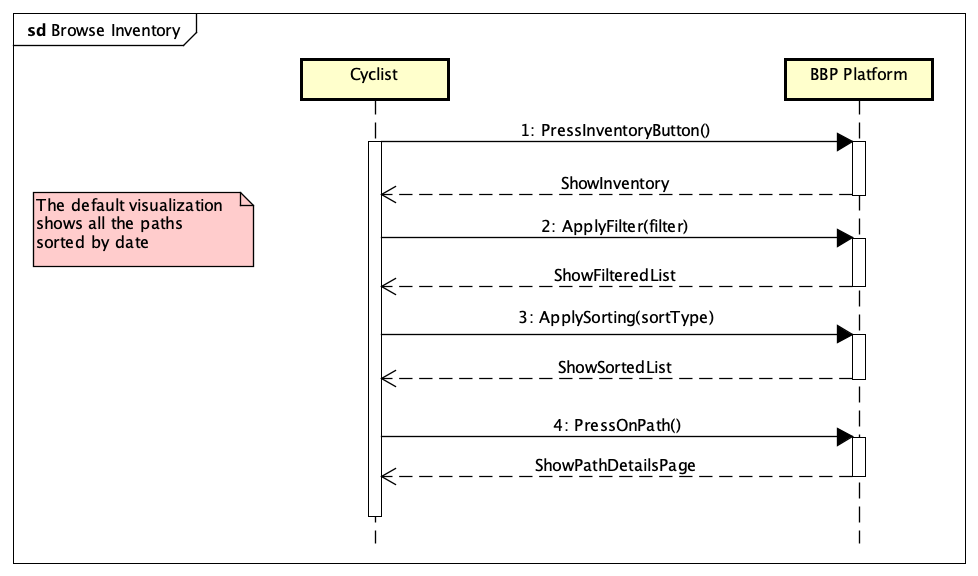
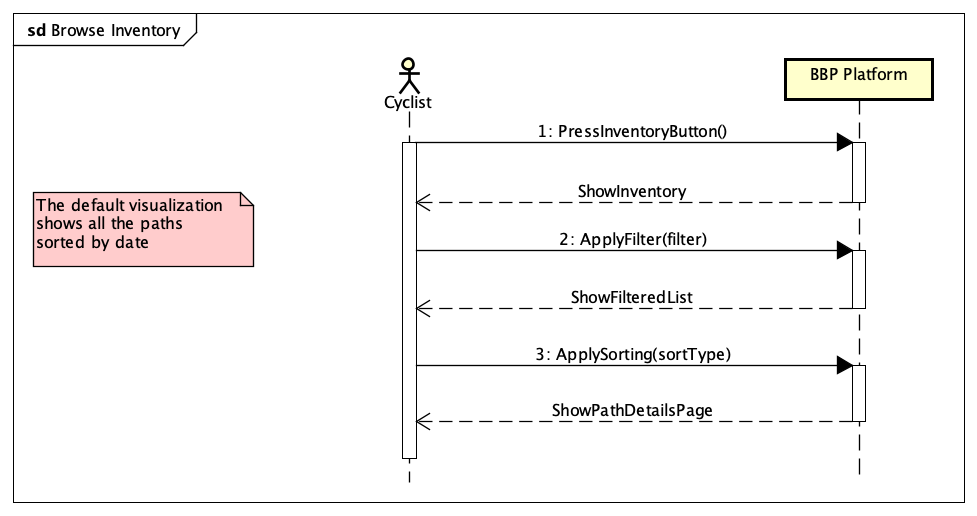
Minor updates to the sequence diagrams

diff --git a/RASD/main.tex b/RASD/main.tex
@@ -31,8 +31,8 @@
 \textbf{Deliverable:} & RASD\\
 \textbf{Title:} & Requirement Analysis and Specification Document \\
 \textbf{Authors:} & Bellomo Flavio, Pennino Salvatore, Samarani Anna \\
-\textbf{Version:} & 1.0 \\ 
-\textbf{Date:} & 07-November-2025 \\
+\textbf{Version:} & 2 \\ 
+\textbf{Date:} & 07-January-2026 \\
 \textbf{Download page:} & https://github.com/flavioblm/BellomoPenninoSamarani.git \\
 \textbf{Copyright:} & Copyright © 2025, Bellomo Flavio, Pennino Salvatore, Samarani Anna – All rights reserved \\
 \hline

diff --git a/RASD/Files/introduction.tex b/RASD/Files/introduction.tex
@@ -69,6 +69,7 @@ The core function of BBP is to support cyclists in recording, managing, and shar
     \item \textbf{R:} Requirement
 \end{itemize}
 \subsection{Revision History}
+ 07/01/2026 - Minor updates to the sequence diagrams
 \subsection{Reference Documents}
 The assignment for this document and all the information included refer to the following documentation:
 \begin{itemize}

diff --git a/RASD/Files/requirements.tex b/RASD/Files/requirements.tex
@@ -491,7 +491,7 @@ Exception       &
 \includegraphics[width=0.9\textwidth]{Images/SD/SD3_GuestAccess.png}
 \caption{\label{fig:metamodel2}Sequence Diagram related to UC3 - Guest Access}
 \end{figure}
-\smallskip
+\newpage
 \item \textbf{SD4 - Logout}\par\smallskip
 \noindent
 \begin{figure}[H]
